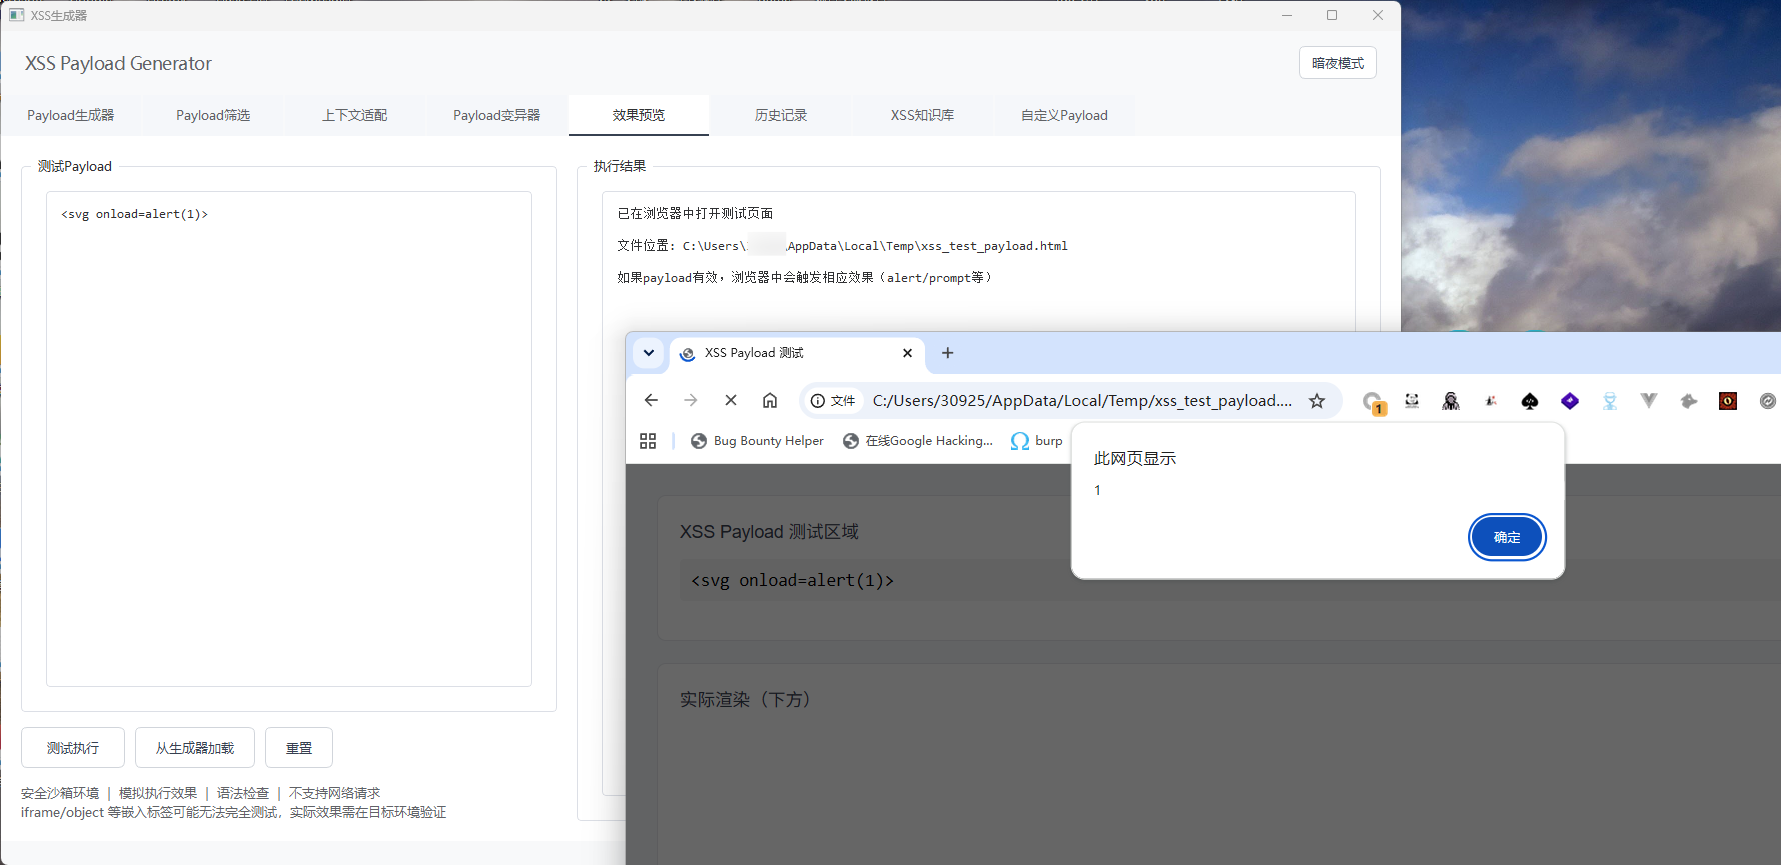
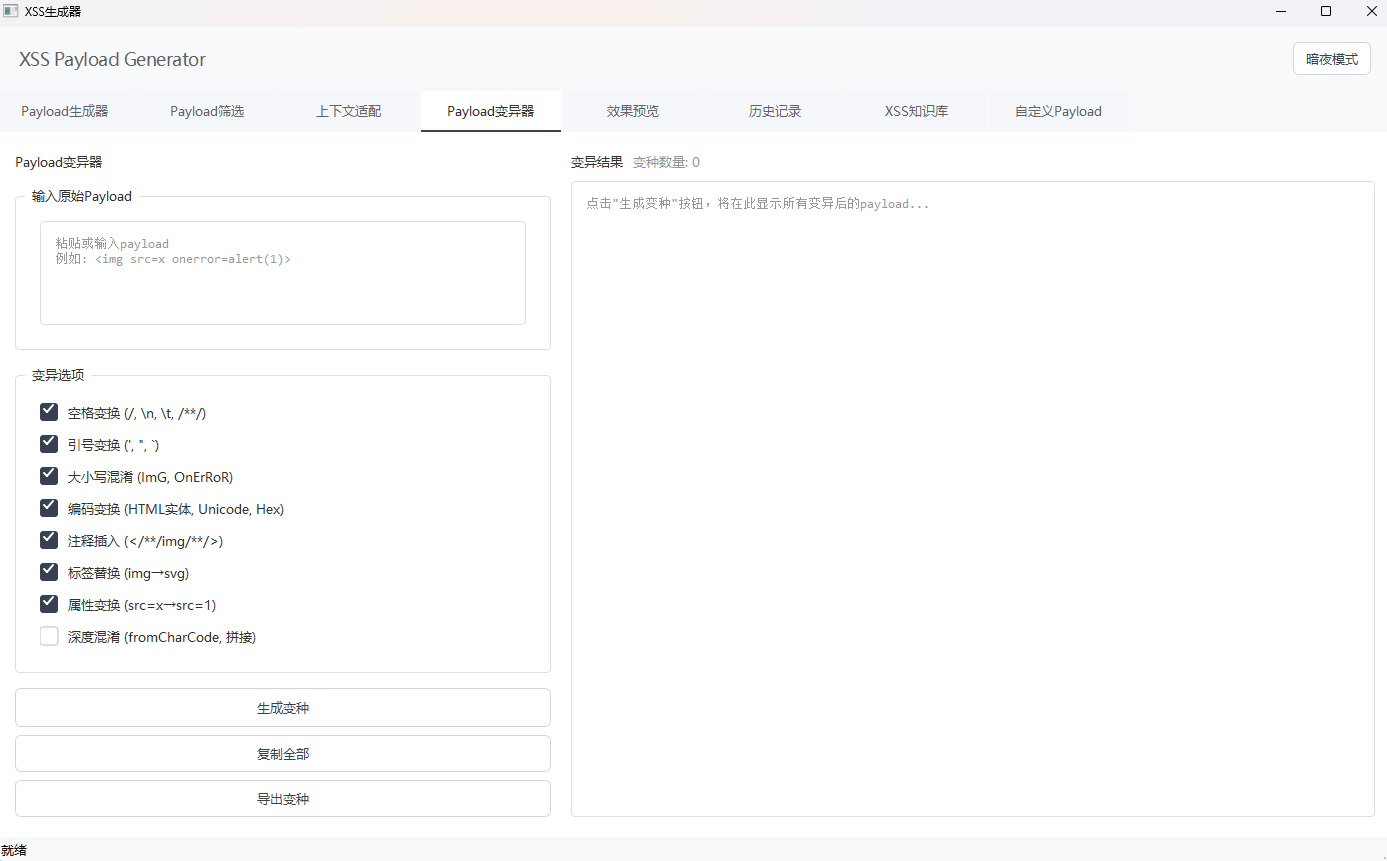
Fix screenshot naming and remove missing context screenshot

diff --git a/README.md b/README.md
@@ -43,13 +43,13 @@
 |:---:|:---:|
 | ![生成器](screenshots/generator.png) | ![筛选](screenshots/filter.png) |
 
-| 上下文适配 | Payload 变异器 |
+| Payload 变异器 | 效果预览 |
 |:---:|:---:|
-| ![上下文](screenshots/context.png) | ![变异器](screenshots/mutator.png) |
+| ![变异器](screenshots/mutator.png) | ![预览](screenshots/preview.png) |
 
-| 效果预览 | XSS 知识库 |
+| XSS 知识库 | 自定义 Payload |
 |:---:|:---:|
-| ![预览](screenshots/preview.png) | ![知识库](screenshots/knowledge.png) |
+| ![知识库](screenshots/knowledge.png) | ![自定义](screenshots/custom.png) |
 
 </details>
 